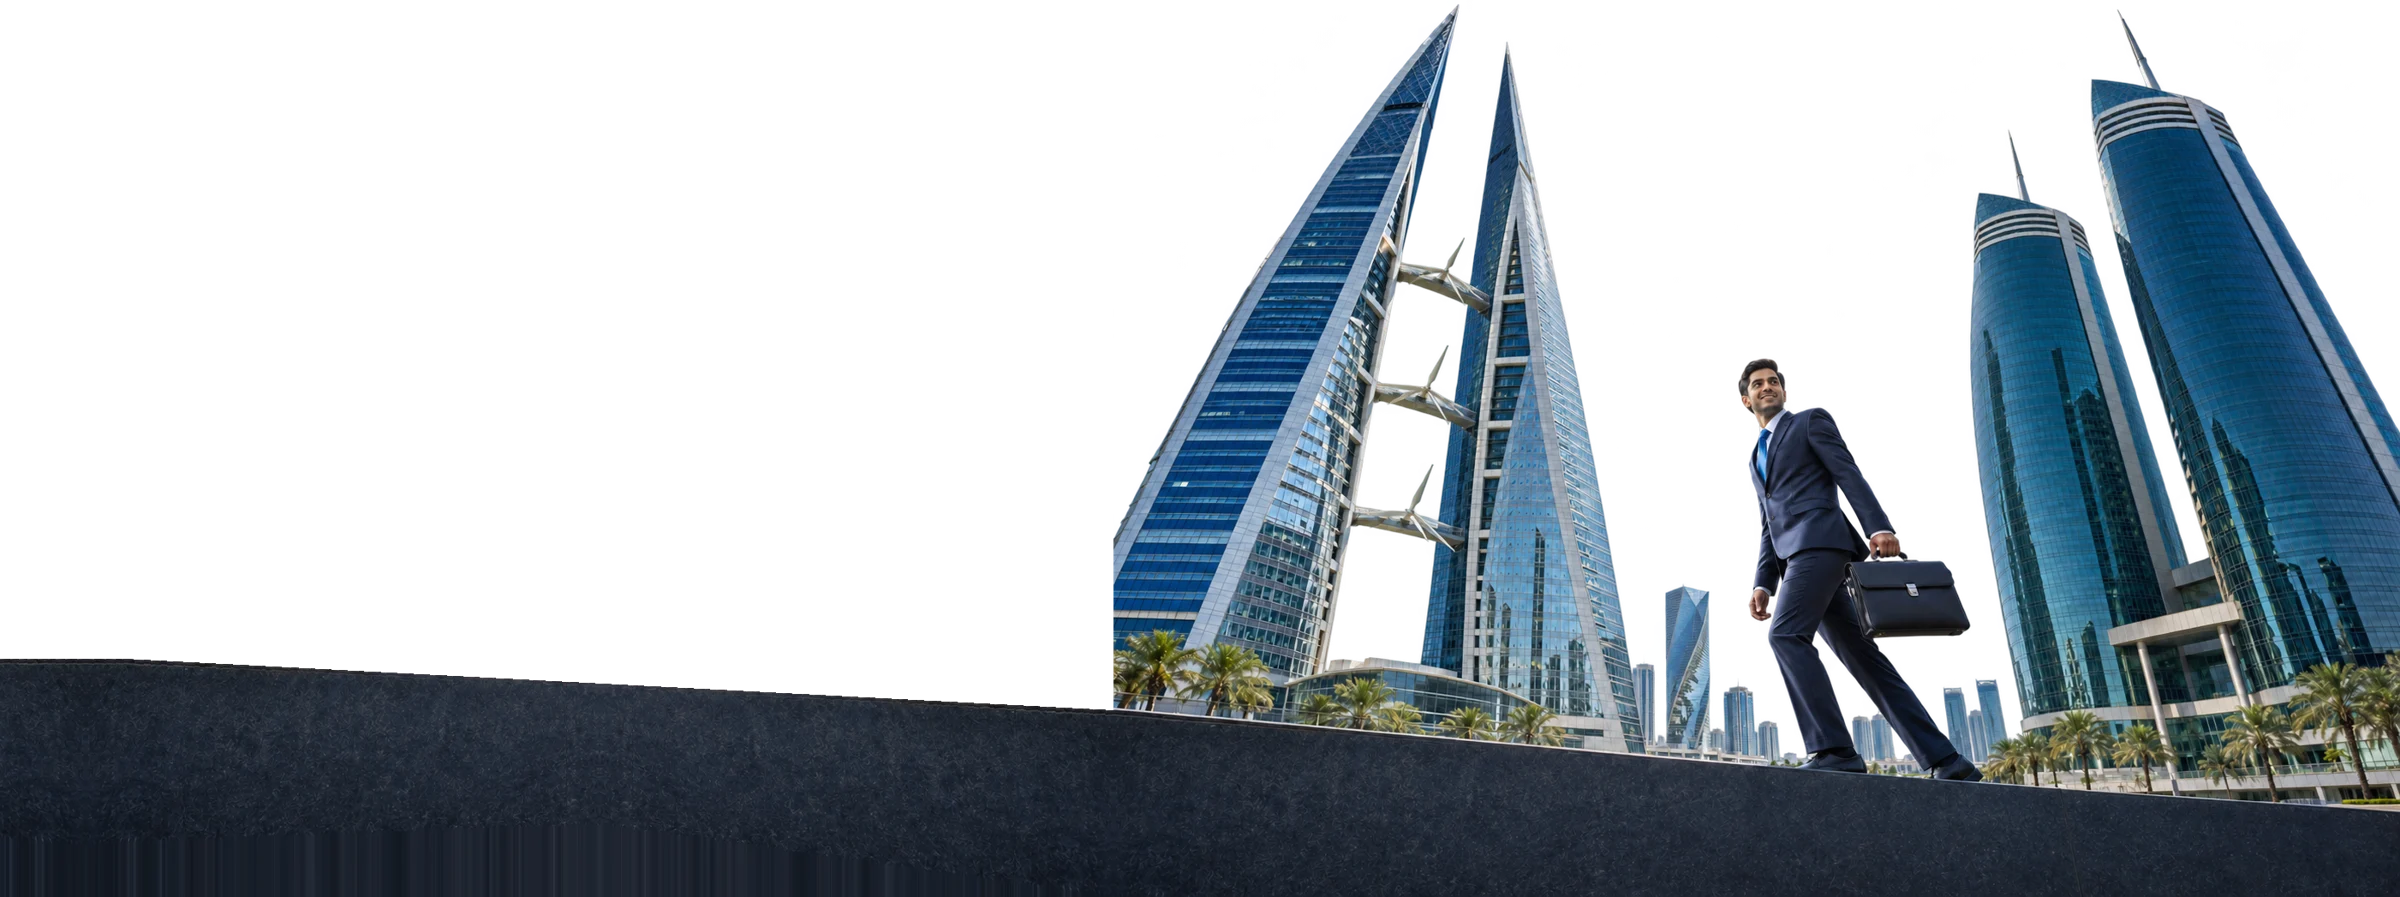
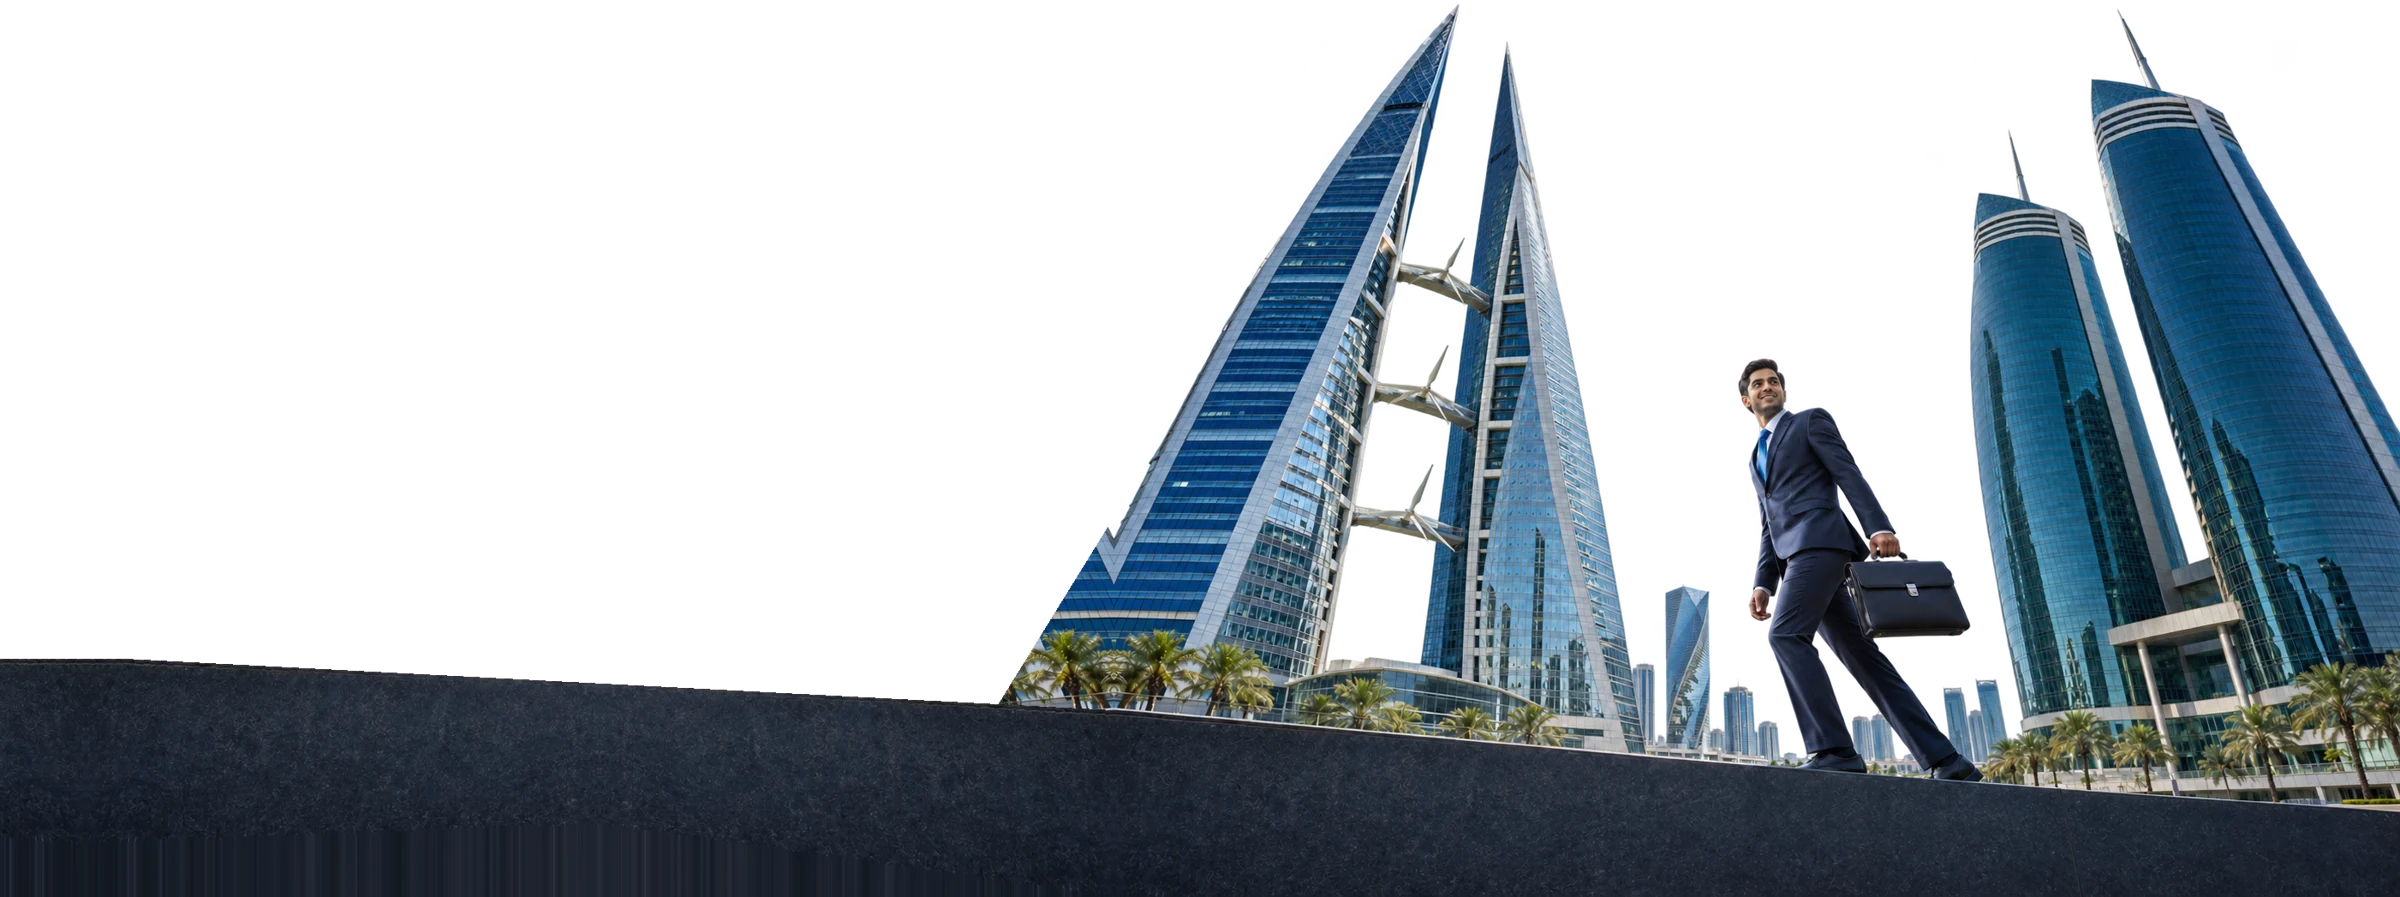
Company registration hero: remove vertical cut on tower base
Claude-Session: https://claude.ai/code/session_01Q8SfPFzKec2UT1Fop63zbA

Changed region(s): [[0.4062, 0.5931, 0.4688, 0.8116]]

diff --git a/company-registration.html b/company-registration.html
@@ -7434,7 +7434,7 @@ input, select, textarea {
     <!-- COMPANY REGISTRATION HERO -->
     <section class="crh crh2" aria-labelledby="cr-title">
       <!-- EDIT: hero background image -->
-      <picture style="display:contents"><source media="(max-width:900px)" srcset="assets/cr-hero-towers.webp"><img class="crh2-art" src="assets/cr-hero-towers-wide.webp" alt="Businessman walking past Bahrain World Trade Center towers" width="1400" height="976" fetchpriority="high" decoding="async"></picture>
+      <picture style="display:contents"><source media="(max-width:900px)" srcset="assets/cr-hero-towers.webp"><img class="crh2-art" src="assets/cr-hero-towers-wide.webp?v=2" alt="Businessman walking past Bahrain World Trade Center towers" width="1400" height="976" fetchpriority="high" decoding="async"></picture>
       <div class="crh-shade" aria-hidden="true"></div>
       <div class="crh-copy">
         <nav class="dms-crumb crh-kicker" aria-label="Breadcrumb"><a href="services.html">Services</a><svg viewBox="0 0 24 24" aria-hidden="true"><path d="m9 6 6 6-6 6"/></svg><span class="dms-kg" aria-current="page">Company registration services</span></nav>
